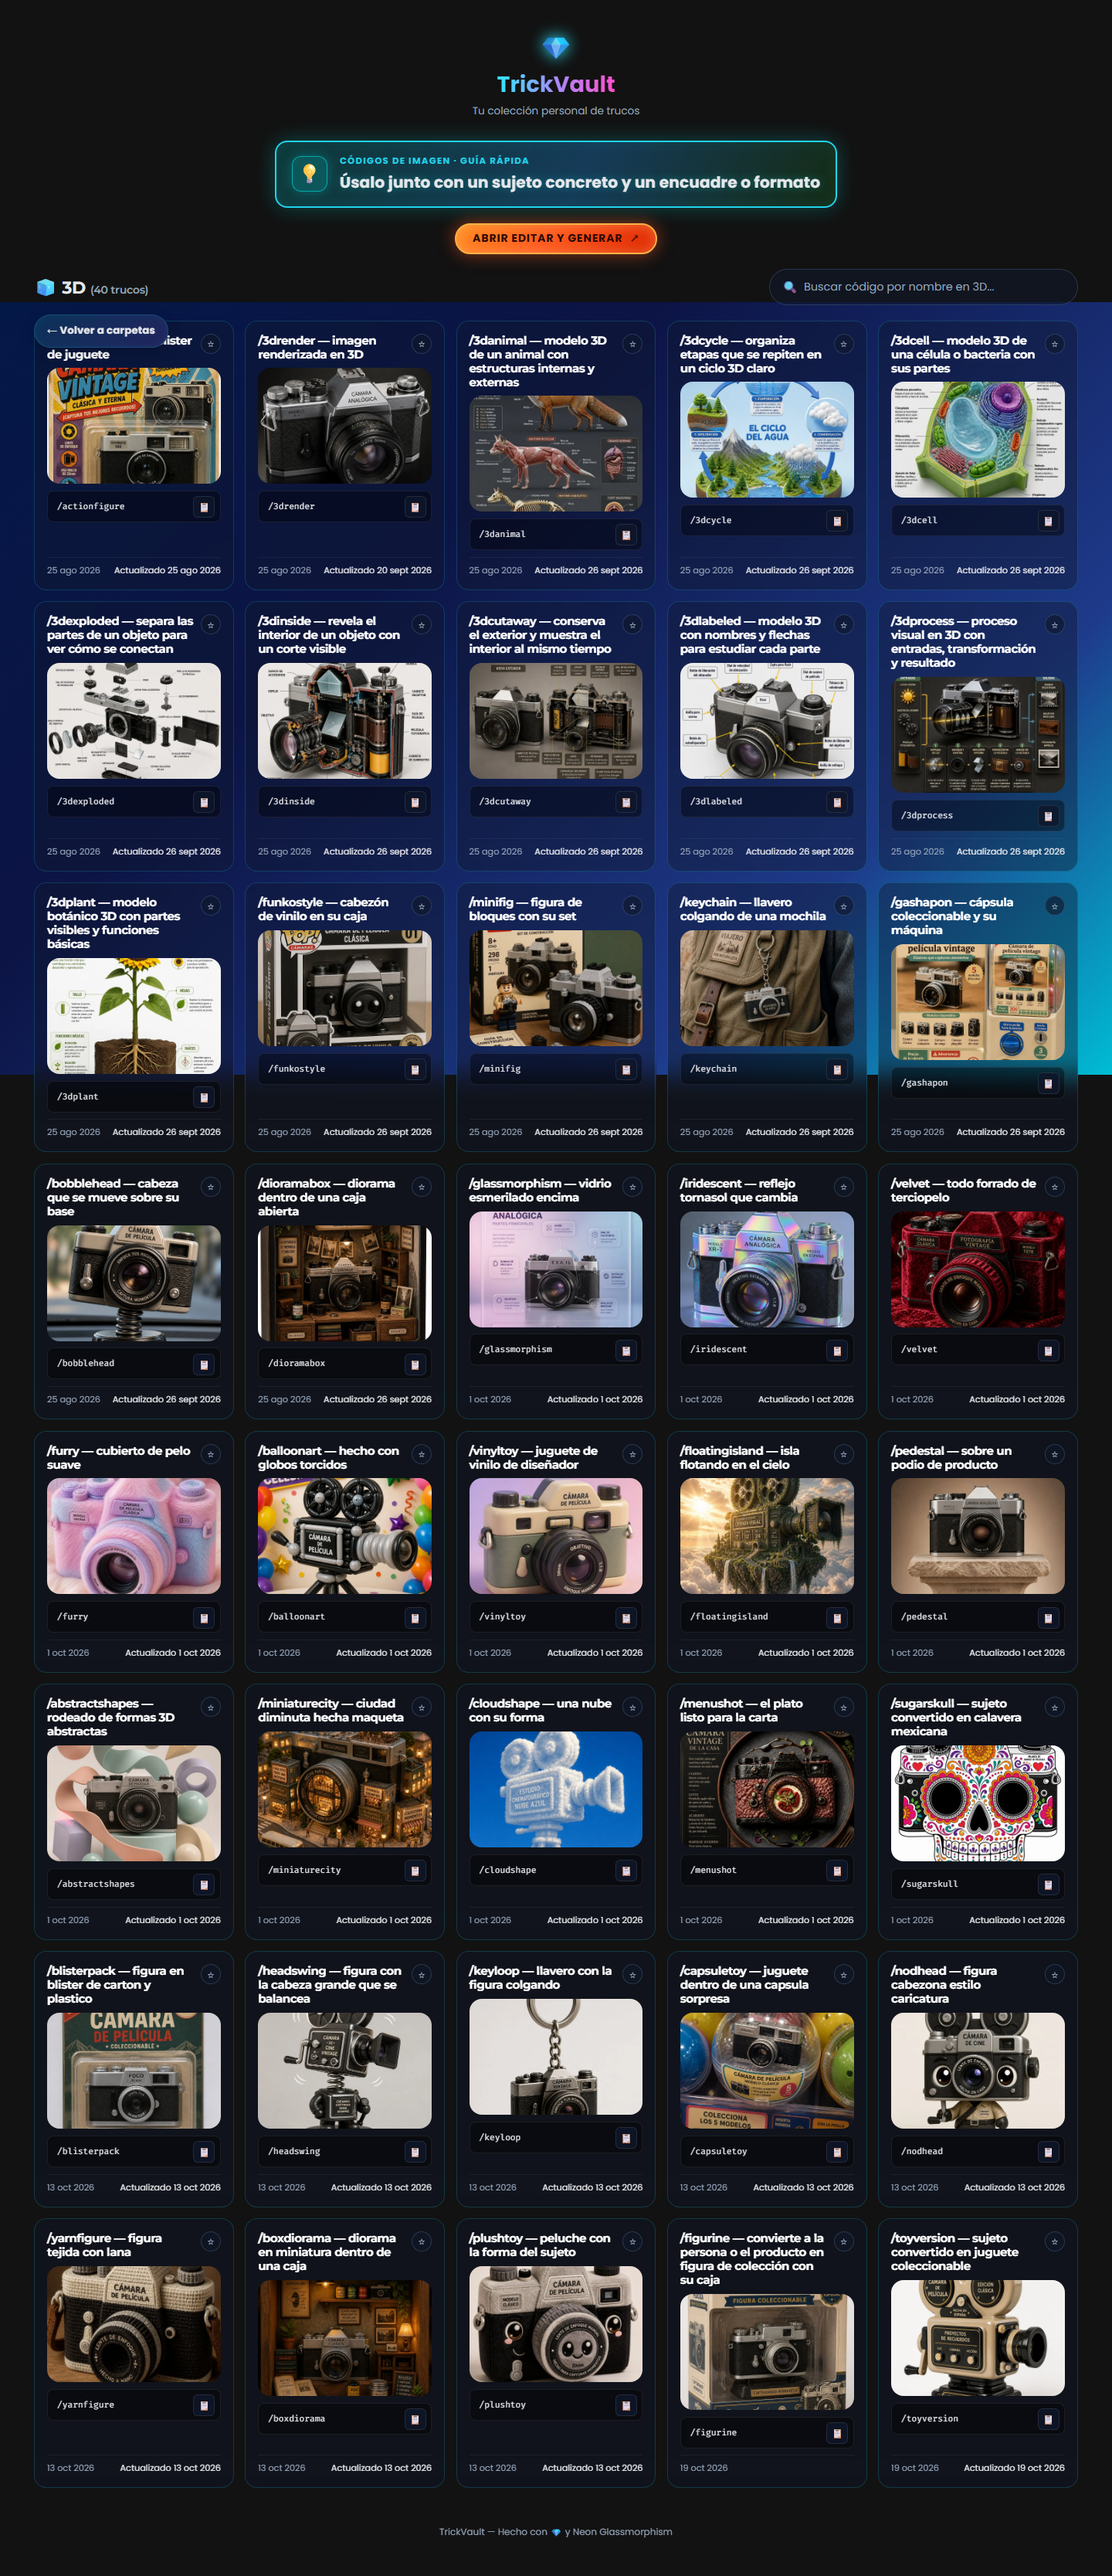
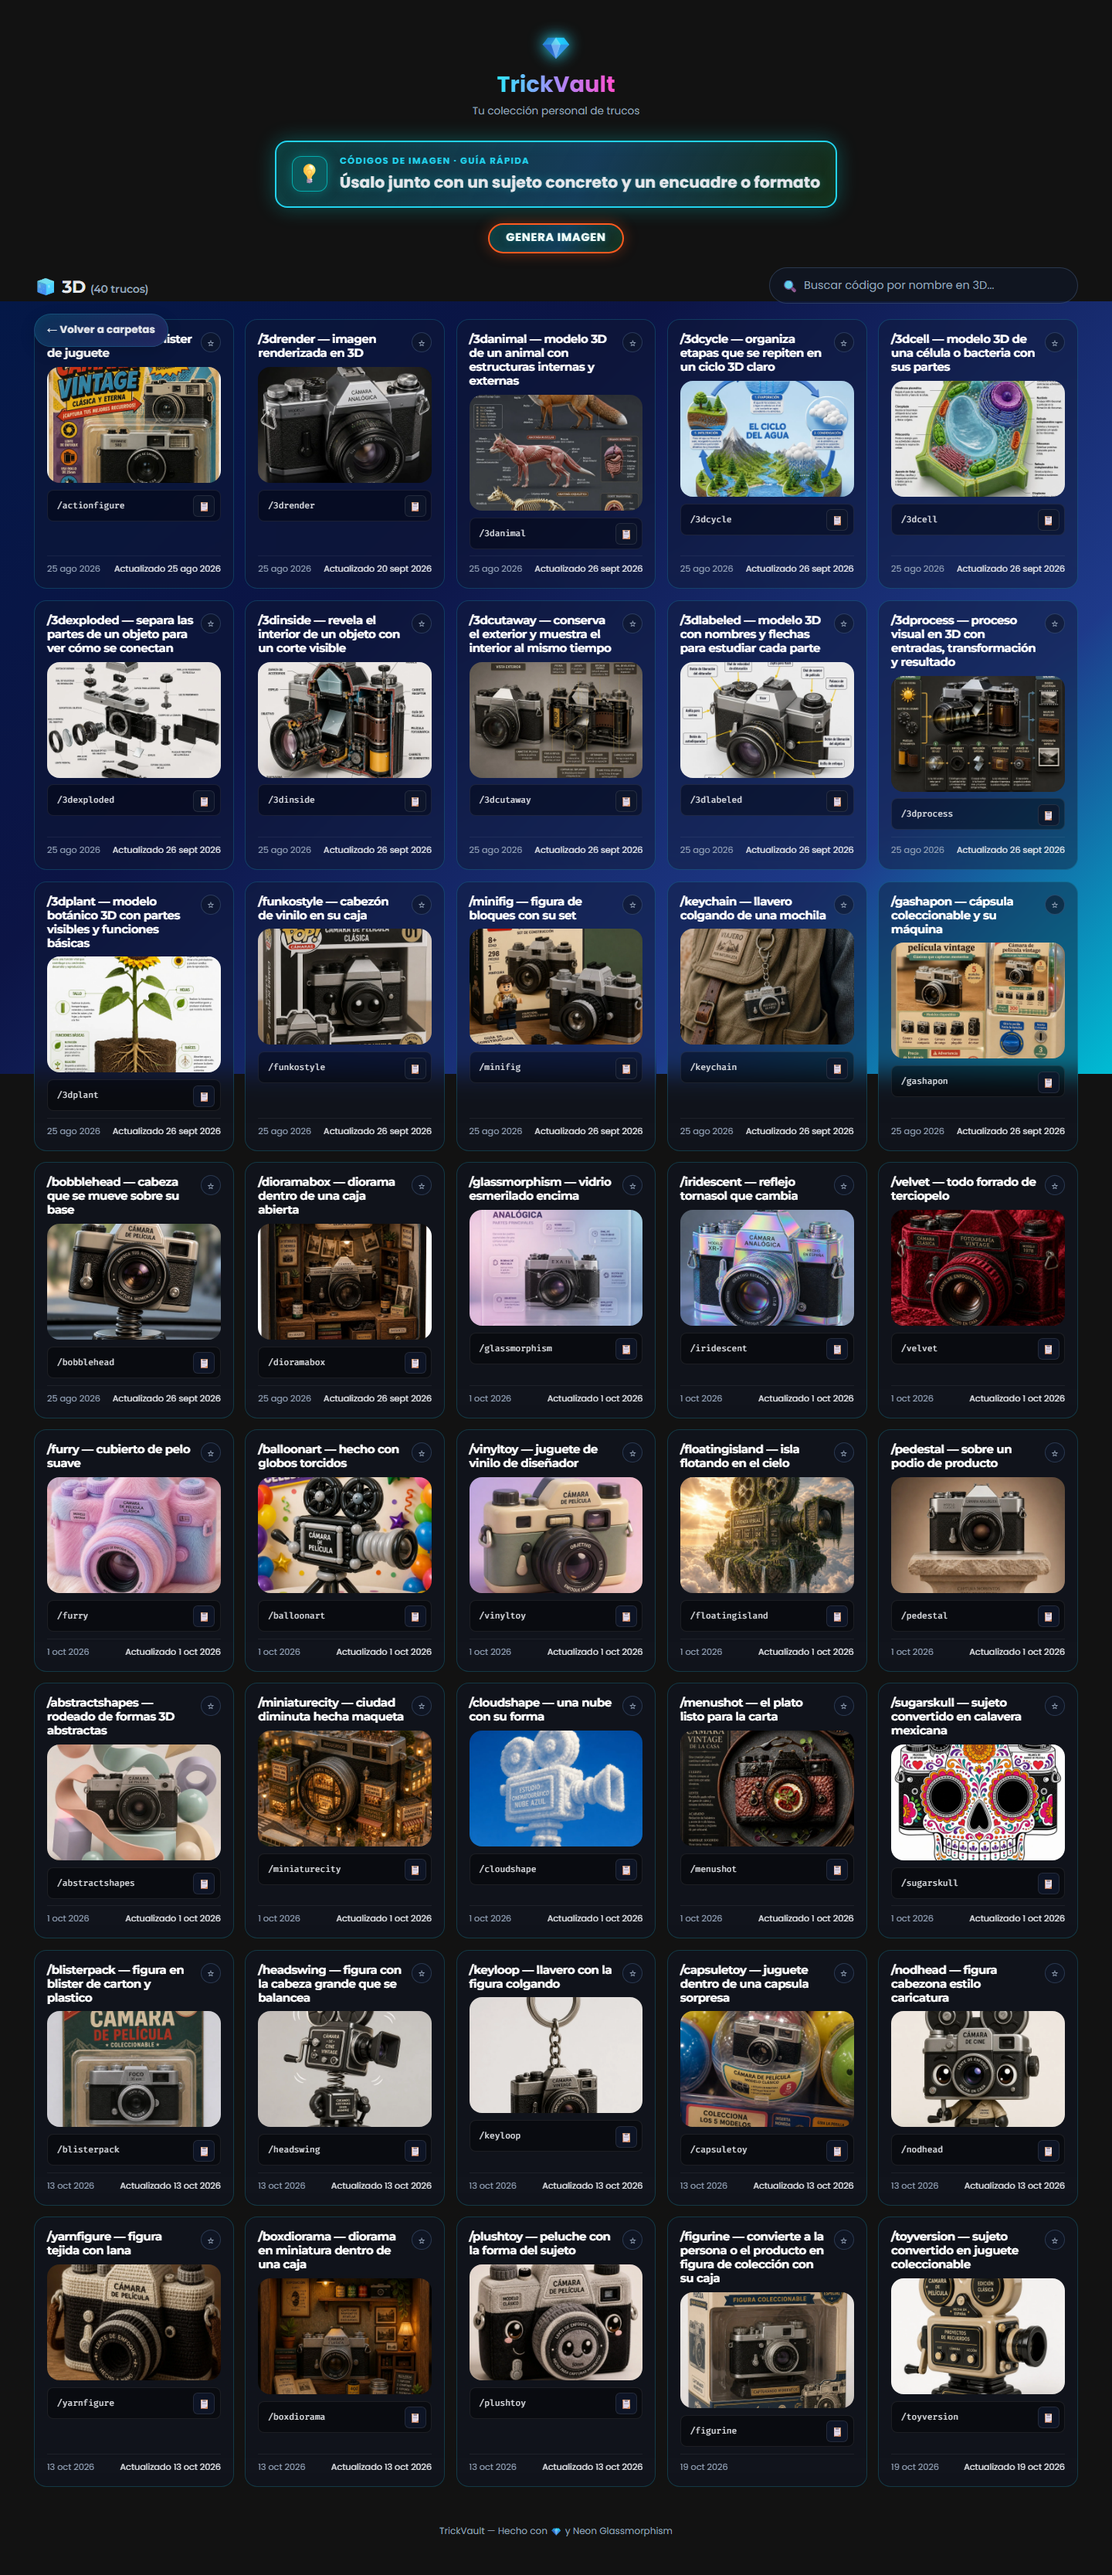
docs(trickvault): evidencias del boton final y bitacora al dia

diff --git a/tools/memoria/bitacora.md b/tools/memoria/bitacora.md
@@ -3143,14 +3143,14 @@ las cabeceras.
 
 ### 2026-11-27 (noche) — trickvault: «Letras y 3D» se parte en dos carpetas y atajo a Editar y Generar
 - **Encargo:** la carpeta «Letras y 3D» (60 trucos) mezclaba lettering con figuras 3D. Dividirla en «Letras» y «3D» dentro de la misma app y añadir al inicio un botón que lleve a `apps/editar_generar`.
-- **Qué hay:** carpetas nuevas `xl-letras` (20: 3dtypography, balloontype, graffiti, chalklettering, goldleaf, handlettering, letterpress, embroideredpatch, woodcarved, icingtext, sandwriting, skywriting, foodtype, ransomnote, chrometype, stencil, logomosaic, typefill, patternfill, ascii) y `xl-3d` (40: figuras, juguetes, cristal, islas, pedestales, calavera y versiones toy). Cada grupo con su carpeta de imágenes (`assets/xl-letras/`, `assets/xl-3d/`, 60 ficheros movidos con `git mv`) y su release de versión. Botón «ABRIR EDITAR Y GENERAR ↗» **debajo de la guía rápida** (`.app-link-wrap`), en rojo anaranjado de llama (`#ff5a1f`), foco visible y pestaña nueva con `rel="noopener"`.
+- **Qué hay:** carpetas nuevas `xl-letras` (20: 3dtypography, balloontype, graffiti, chalklettering, goldleaf, handlettering, letterpress, embroideredpatch, woodcarved, icingtext, sandwriting, skywriting, foodtype, ransomnote, chrometype, stencil, logomosaic, typefill, patternfill, ascii) y `xl-3d` (40: figuras, juguetes, cristal, islas, pedestales, calavera y versiones toy). Cada grupo con su carpeta de imágenes (`assets/xl-letras/`, `assets/xl-3d/`, 60 ficheros movidos con `git mv`) y su release de versión. Botón **«GENERA IMAGEN»** debajo de la guía rápida (`.app-link-wrap`): relleno con el **mismo vidrio de la guía** y **solo el borde exterior** en rojo anaranjado de llama (`#ff5a1f`), texto claro (contraste 9,4–13,4:1), foco visible y pestaña nueva con `rel="noopener"`.
 - **Migración:** `FOLDERS_SCHEMA_VERSION` 7→8 para que los navegadores con lista guardada reciban las dos carpetas, `FOLDERS_REMOVED` retira `xl-letras3d` y `normalizeTrickCategory` reparte por código las tarjetas ya guardadas (`LETRAS3D_LETRAS` / `LETRAS3D_TRESD`, comparando en minúsculas y con el código del id como respaldo).
 - **Capa publicada:** el `catalogo.json` del repo estaba en el de 2026-11-01 y producción traía ya 17 tarjetas nuevas. Se partió del fichero real de producción para no perder datos al desplegar.
 - **Incidente (20:12):** una publicación desde la app (`a312621c`) trajo dos anulaciones de carpeta —`cap-cmd-108` (/ascii) y `cap-cmd-110` (/typefill)— y producción pasó a **18/42**. El verificador independiente lo detectó y frenó la entrega (REWORK 77,6). Corregido en `6529a6d1`: se quitaron las anulaciones y se regeneró el `orden` de `xl-letras`/`xl-3d` con los ids reales (20/40). Riesgo residual: publicar desde un navegador con esas dos tarjetas en «3D» lo reintroduce.
 - **Imágenes:** `/figurine` (reel2-cmd-001) y `/toyversion` (turn-cmd-002) conservaban rutas `assets/xl-letras3d/…`; ahora se remapean por código al cargar (0 tarjetas con la ruta vieja).
-- **Medido en Chrome (producción):** 27 carpetas; «Letras 20 trucos» y «3D 40 trucos»; 20/20 y 40/40 miniaturas pintadas con scroll completo y 60/60 rutas HTTP 200; sin scroll horizontal a 1440/768/390; botón 262×41 (escritorio y 768) y 222×38 (390), dentro de pantalla; foco con Tab en anillo de 3 px; contraste del texto 5,85:1.
+- **Medido en Chrome (producción):** 27 carpetas; «Letras 20 trucos» y «3D 40 trucos»; 20/20 y 40/40 miniaturas pintadas con scroll completo y 60/60 rutas HTTP 200; sin scroll horizontal a 1440/768/390; botón 177×39 (escritorio y 768) y 150×35 (390), dentro de pantalla; foco con Tab en anillo de 3 px; contraste del texto 5,85:1.
 - **Migración probada:** navegador simulado con las 60 tarjetas en `xl-letras3d` y esquema 7 → tras recargar, 20 / 40, carpeta vieja fuera, `xl-dev` intacta (16) y ninguna tarjeta huérfana.
 - **Conocido y no provocado aquí:** `ig-dcek-004` (/crosssection) desaparece al recargar por la migración de una sola vez de «Doble exposición» (`migrateDobleReorganizada`), **no** por deduplicación; se reprodujo también con el `index.html` anterior. Y si `catalogo.json` no carga, las ~15 tarjetas que solo viven en la capa publicada no se ven (comportamiento previo de la app).
-- **Commits:** `5a76e279` (app + assets + evidencias), `da1fe24d` (botón debajo de la guía y en llamarada), `6529a6d1` (reparto 20/40 en la capa publicada y rutas de imagen).
+- **Commits:** `5a76e279` (app + assets + evidencias), `da1fe24d` (botón debajo de la guía), `b2c0d742` (botón final: vidrio de la guía, borde llama y texto «GENERA IMAGEN»), `6529a6d1` (reparto 20/40 en la capa publicada y rutas de imagen).
 - **Verificación:** verificador independiente; ronda 1 REWORK 77,6 (por el 18/42 y por evidencias inexactas); corregido y re-verificado.
 - **Evidencias:** `tools/evidencias/2026-11-27-trickvault-letras3d/`.

diff --git a/tools/evidencias/2026-11-27-trickvault-letras3d/LEEME.md b/tools/evidencias/2026-11-27-trickvault-letras3d/LEEME.md
@@ -1,8 +1,9 @@
 # Evidencias — TrickVault · «Letras y 3D» partida en «Letras» y «3D» + atajo a Editar y Generar (2026-11-27)
 
-Producción: `https://atnojs.es/apps/trickvault/`. Commits: `5a76e279` (reparto + assets + botón),
-`da1fe24d` (botón debajo de la guía y en llamarada), `6529a6d1` (reparto 20/40 en la capa publicada
-y ejemplos con la ruta nueva). Todo comprobado sobre la versión **servida**, no solo sobre el repo.
+Producción: `https://atnojs.es/apps/trickvault/`. Commits: `5a76e279` (reparto + assets + primer
+botón), `da1fe24d` (botón debajo de la guía), `6529a6d1` (reparto 20/40 en la capa publicada y
+ejemplos con la ruta nueva) y `b2c0d742` (botón final: vidrio de la guía, borde en llamarada y
+texto «GENERA IMAGEN»). Todo comprobado sobre la versión **servida**, no solo sobre el repo.
 
 ## Qué prueba cada fichero
 
@@ -15,9 +16,10 @@ y ejemplos con la ruta nueva). Todo comprobado sobre la versión **servida**, no
 | `despues-letras-1440.png`, `despues-letras-390.png` | «Letras» con sus 20 tarjetas y sus imágenes (incluye `/ascii` y `/typefill`). |
 | `despues-3d-1440.png` | «3D» con sus 40 tarjetas. |
 | `comparativa_trickvault_letras_3d.png` | Antes/después de la portada en una sola imagen, etiquetada. |
-| `comparativa_trickvault_boton.png` | Cabecera antes (sin atajo) y después (píldora de llamarada bajo la guía). |
-| `detalle_boton_llama.png` | El botón a 1440 y a 390, ampliado. |
+| `comparativa_trickvault_boton.png` | Cabecera antes (sin atajo) y después (botón bajo la guía). |
+| `detalle_boton_glass.png` | La guía y el botón juntos, y el botón a 1440 y a 390: mismo vidrio, borde en llamarada. |
 | `foco-teclado-boton.png` | Anillo de foco real al llegar con **Tab** (`0 0 0 3px rgba(255,138,31,.75)`). |
+| `detalle_boton_glass.png` | Botón final: relleno igual que la guía (`rgba(0,208,208,.2)` → `rgba(23,79,122,.68)` → `rgba(38,198,38,.14)`), borde de 2 px `#ff5a1f`, texto `#f2fffb`. Contraste medido sobre el fondo real: **9,4–13,4:1**. |
 | `portada-anchos-report.json` | Medidas de portada: 1440/768/390, `scrollWidth == innerWidth`, caja del botón. |
 | `interaccion-report.json` | Clic real: abre `editar_generar` en pestaña nueva (título comprobado) y TrickVault sigue abierta; «Volver a carpetas» restaura 27. |
 | `migracion-report.json` | Navegador simulado con las **60** tarjetas guardadas en `xl-letras3d` y esquema 7: tras recargar, 20 / 40, carpeta vieja fuera, `xl-dev` en 16 y ninguna tarjeta huérfana. |
@@ -43,6 +45,9 @@ y ejemplos con la ruta nueva). Todo comprobado sobre la versión **servida**, no
   Corregido en `6529a6d1` (se quitaron las anulaciones y se regeneró el `orden` con los ids
   reales). Si vuelve a publicarse desde un navegador con esas dos tarjetas en «3D», volvería a
   pasar: se arregla arrastrándolas a «Letras» y publicando.
+- **Botón**: texto «GENERA IMAGEN» (mayúsculas de la app), 177×39 px a 1440/768 y 150×35 a 390, todo
+  dentro de pantalla; abre `editar_generar` en pestaña nueva con `rel="noopener"`; foco de teclado
+  con anillo de 3 px.
 - **Imágenes**: `/figurine` (`reel2-cmd-001`) y `/toyversion` (`turn-cmd-002`) conservaban rutas
   `assets/xl-letras3d/…`. Ahora se remapean por código al cargar (0 tarjetas con la ruta vieja).
 
